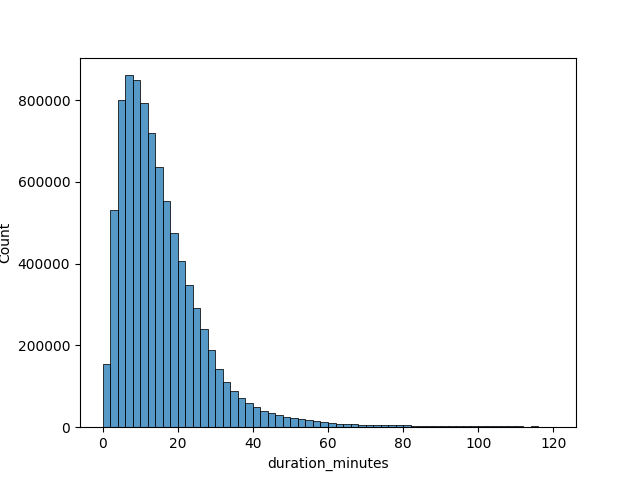
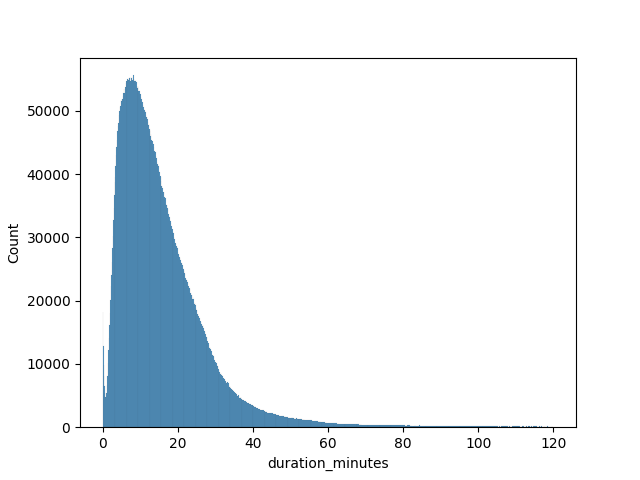
Remove binwidth argument

diff --git a/tfl_cycling_2024/plots/01_trip_duration.py b/tfl_cycling_2024/plots/01_trip_duration.py
@@ -32,7 +32,6 @@ sns.histplot(
     data[data['duration_minutes'] < TIME_LIMIT],
     x='duration_minutes',
     stat='count',
-    binwidth=2,
 )
 plt.savefig('plots/1_duration_hist_120_min.png')
 
@@ -44,7 +43,6 @@ sns.histplot(
     data[data['duration_minutes'] < TIME_LIMIT],
     x='duration_minutes',
     stat='count',
-    binwidth=0.2,
 )
 plt.savefig('plots/1_duration_hist_5_min_raw.png')
 
@@ -59,7 +57,6 @@ sns.histplot(
     ],
     x='duration_minutes',
     stat='count',
-    binwidth=0.2,
 )
 plt.savefig('plots/1_duration_hist_5_min_clean.png')
 
@@ -69,7 +66,6 @@ sns.histplot(
     data[data['round_trip'] == True],
     x='duration_minutes',
     stat='count',
-    binwidth=0.1,
     log_scale=True
 )
 plt.savefig('plots/1_duration_hist_round_trip.png')
